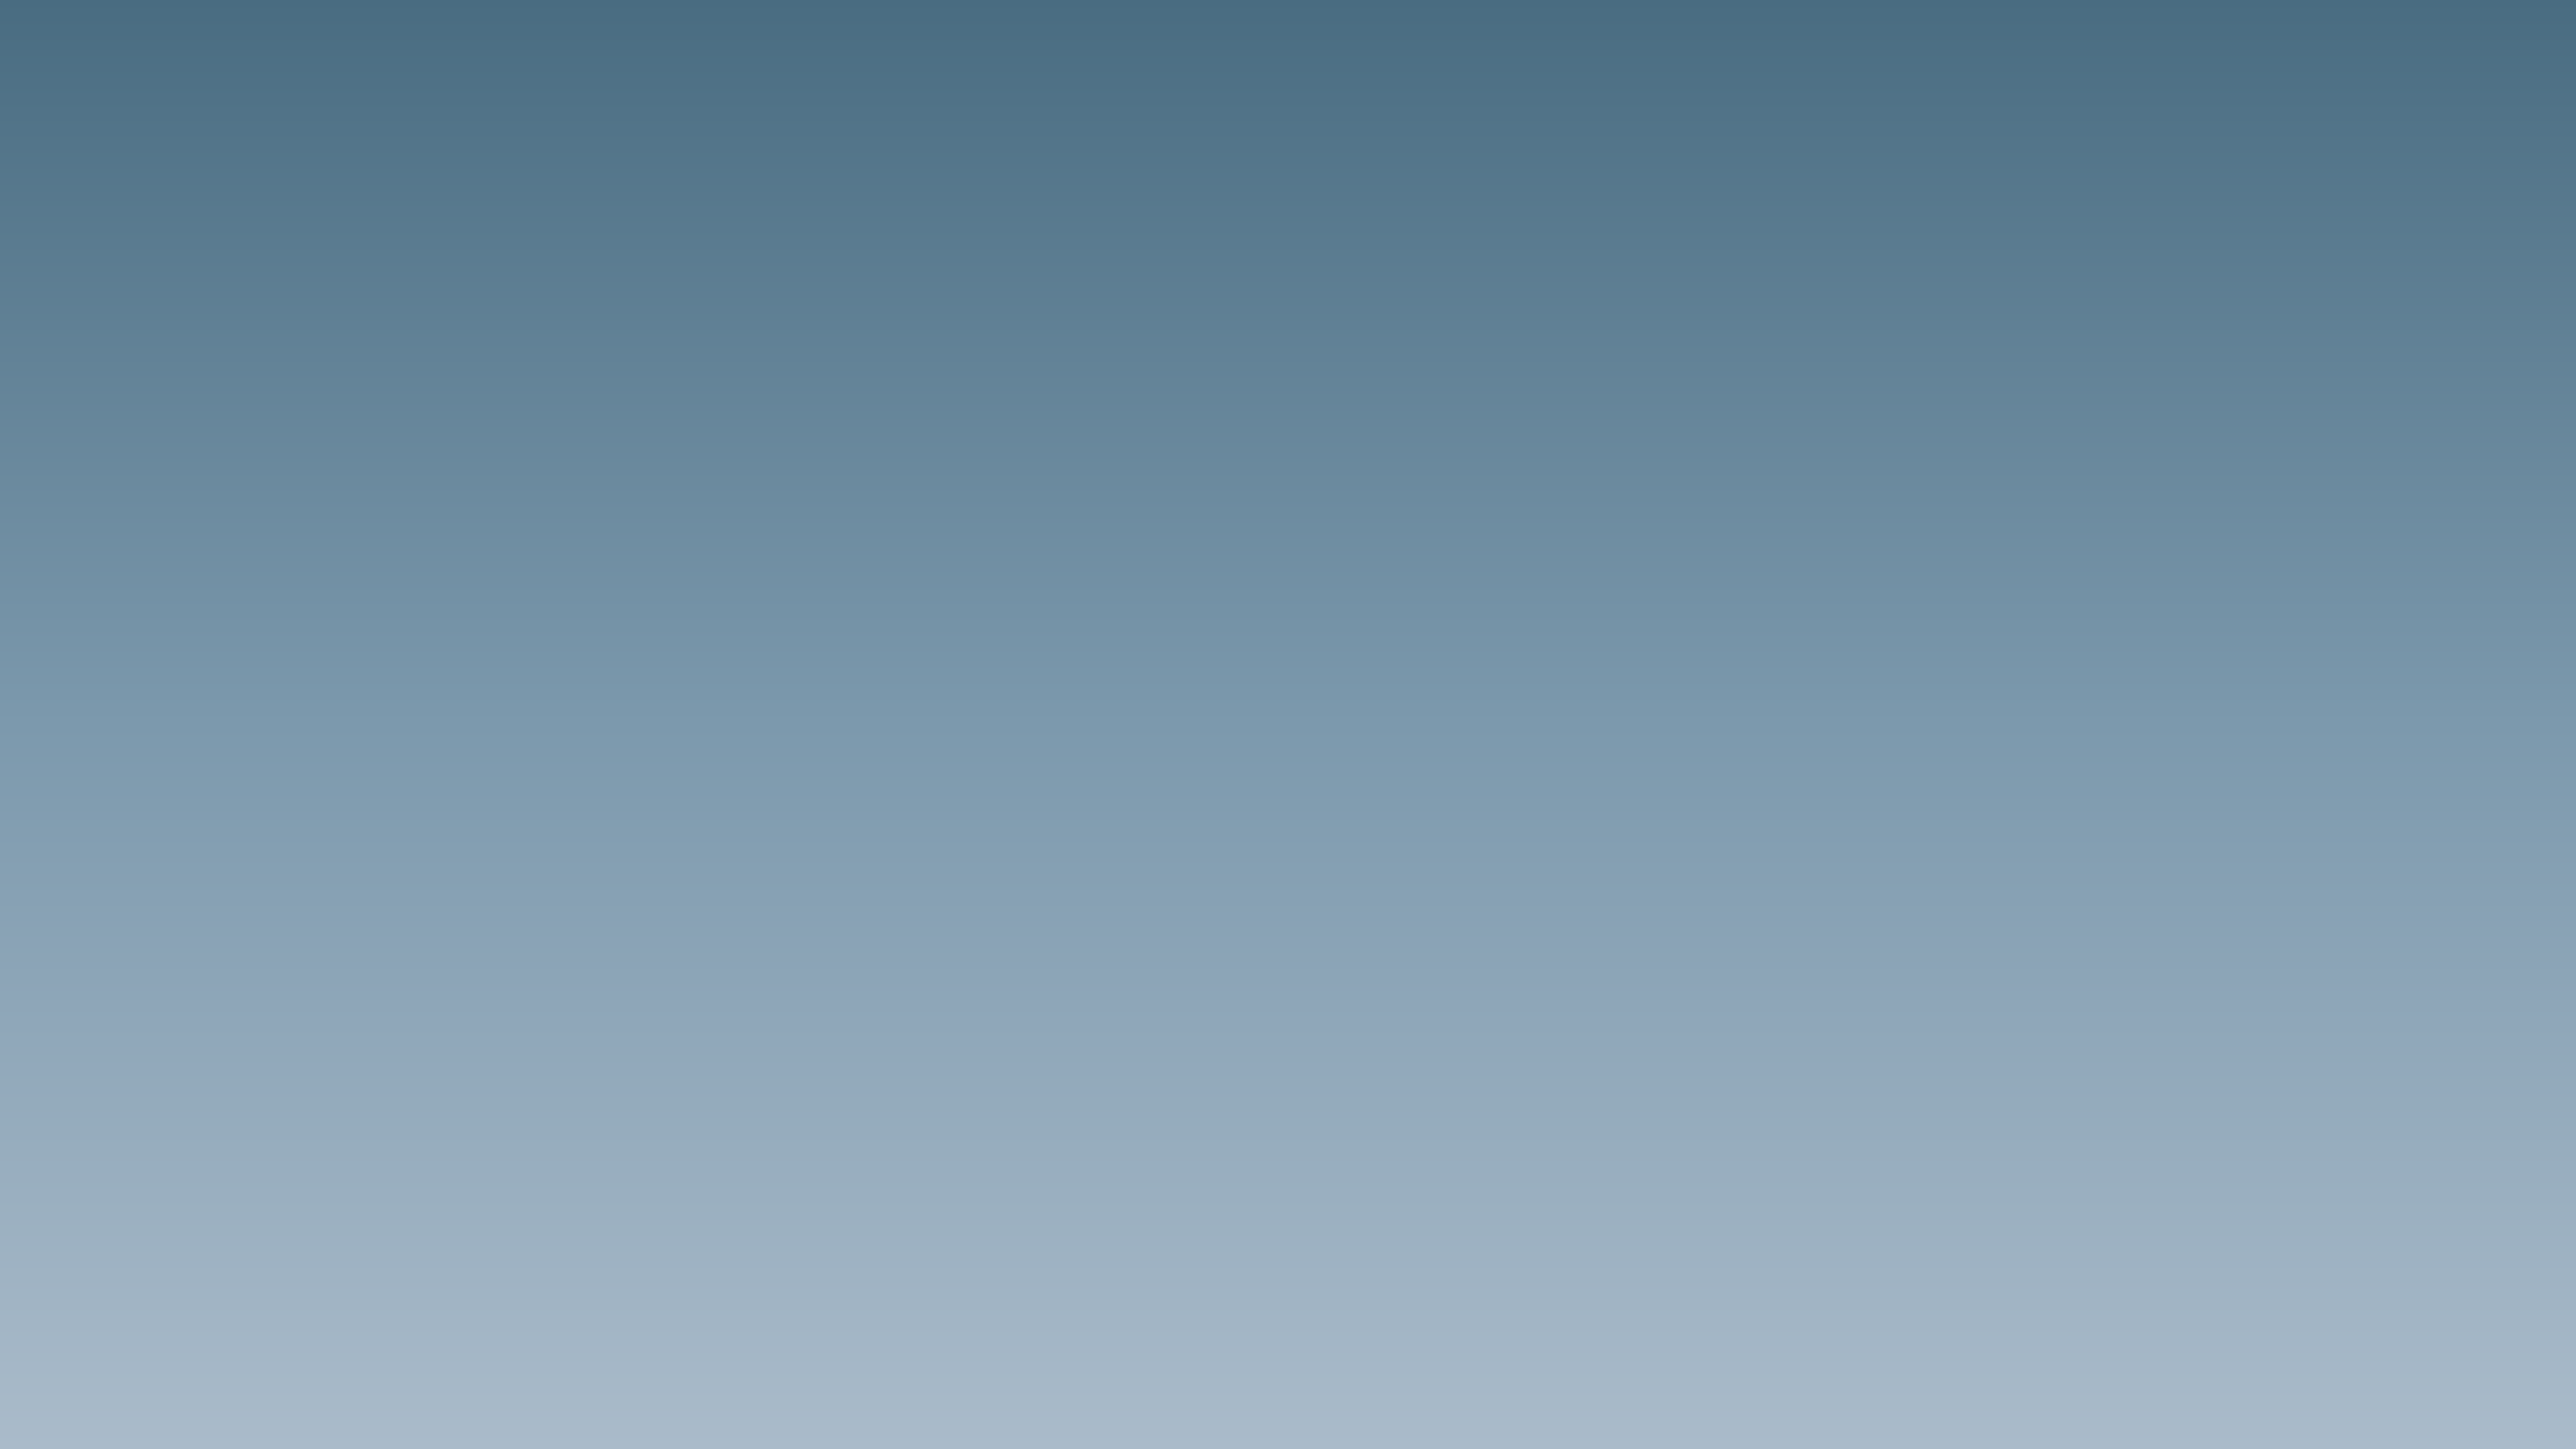
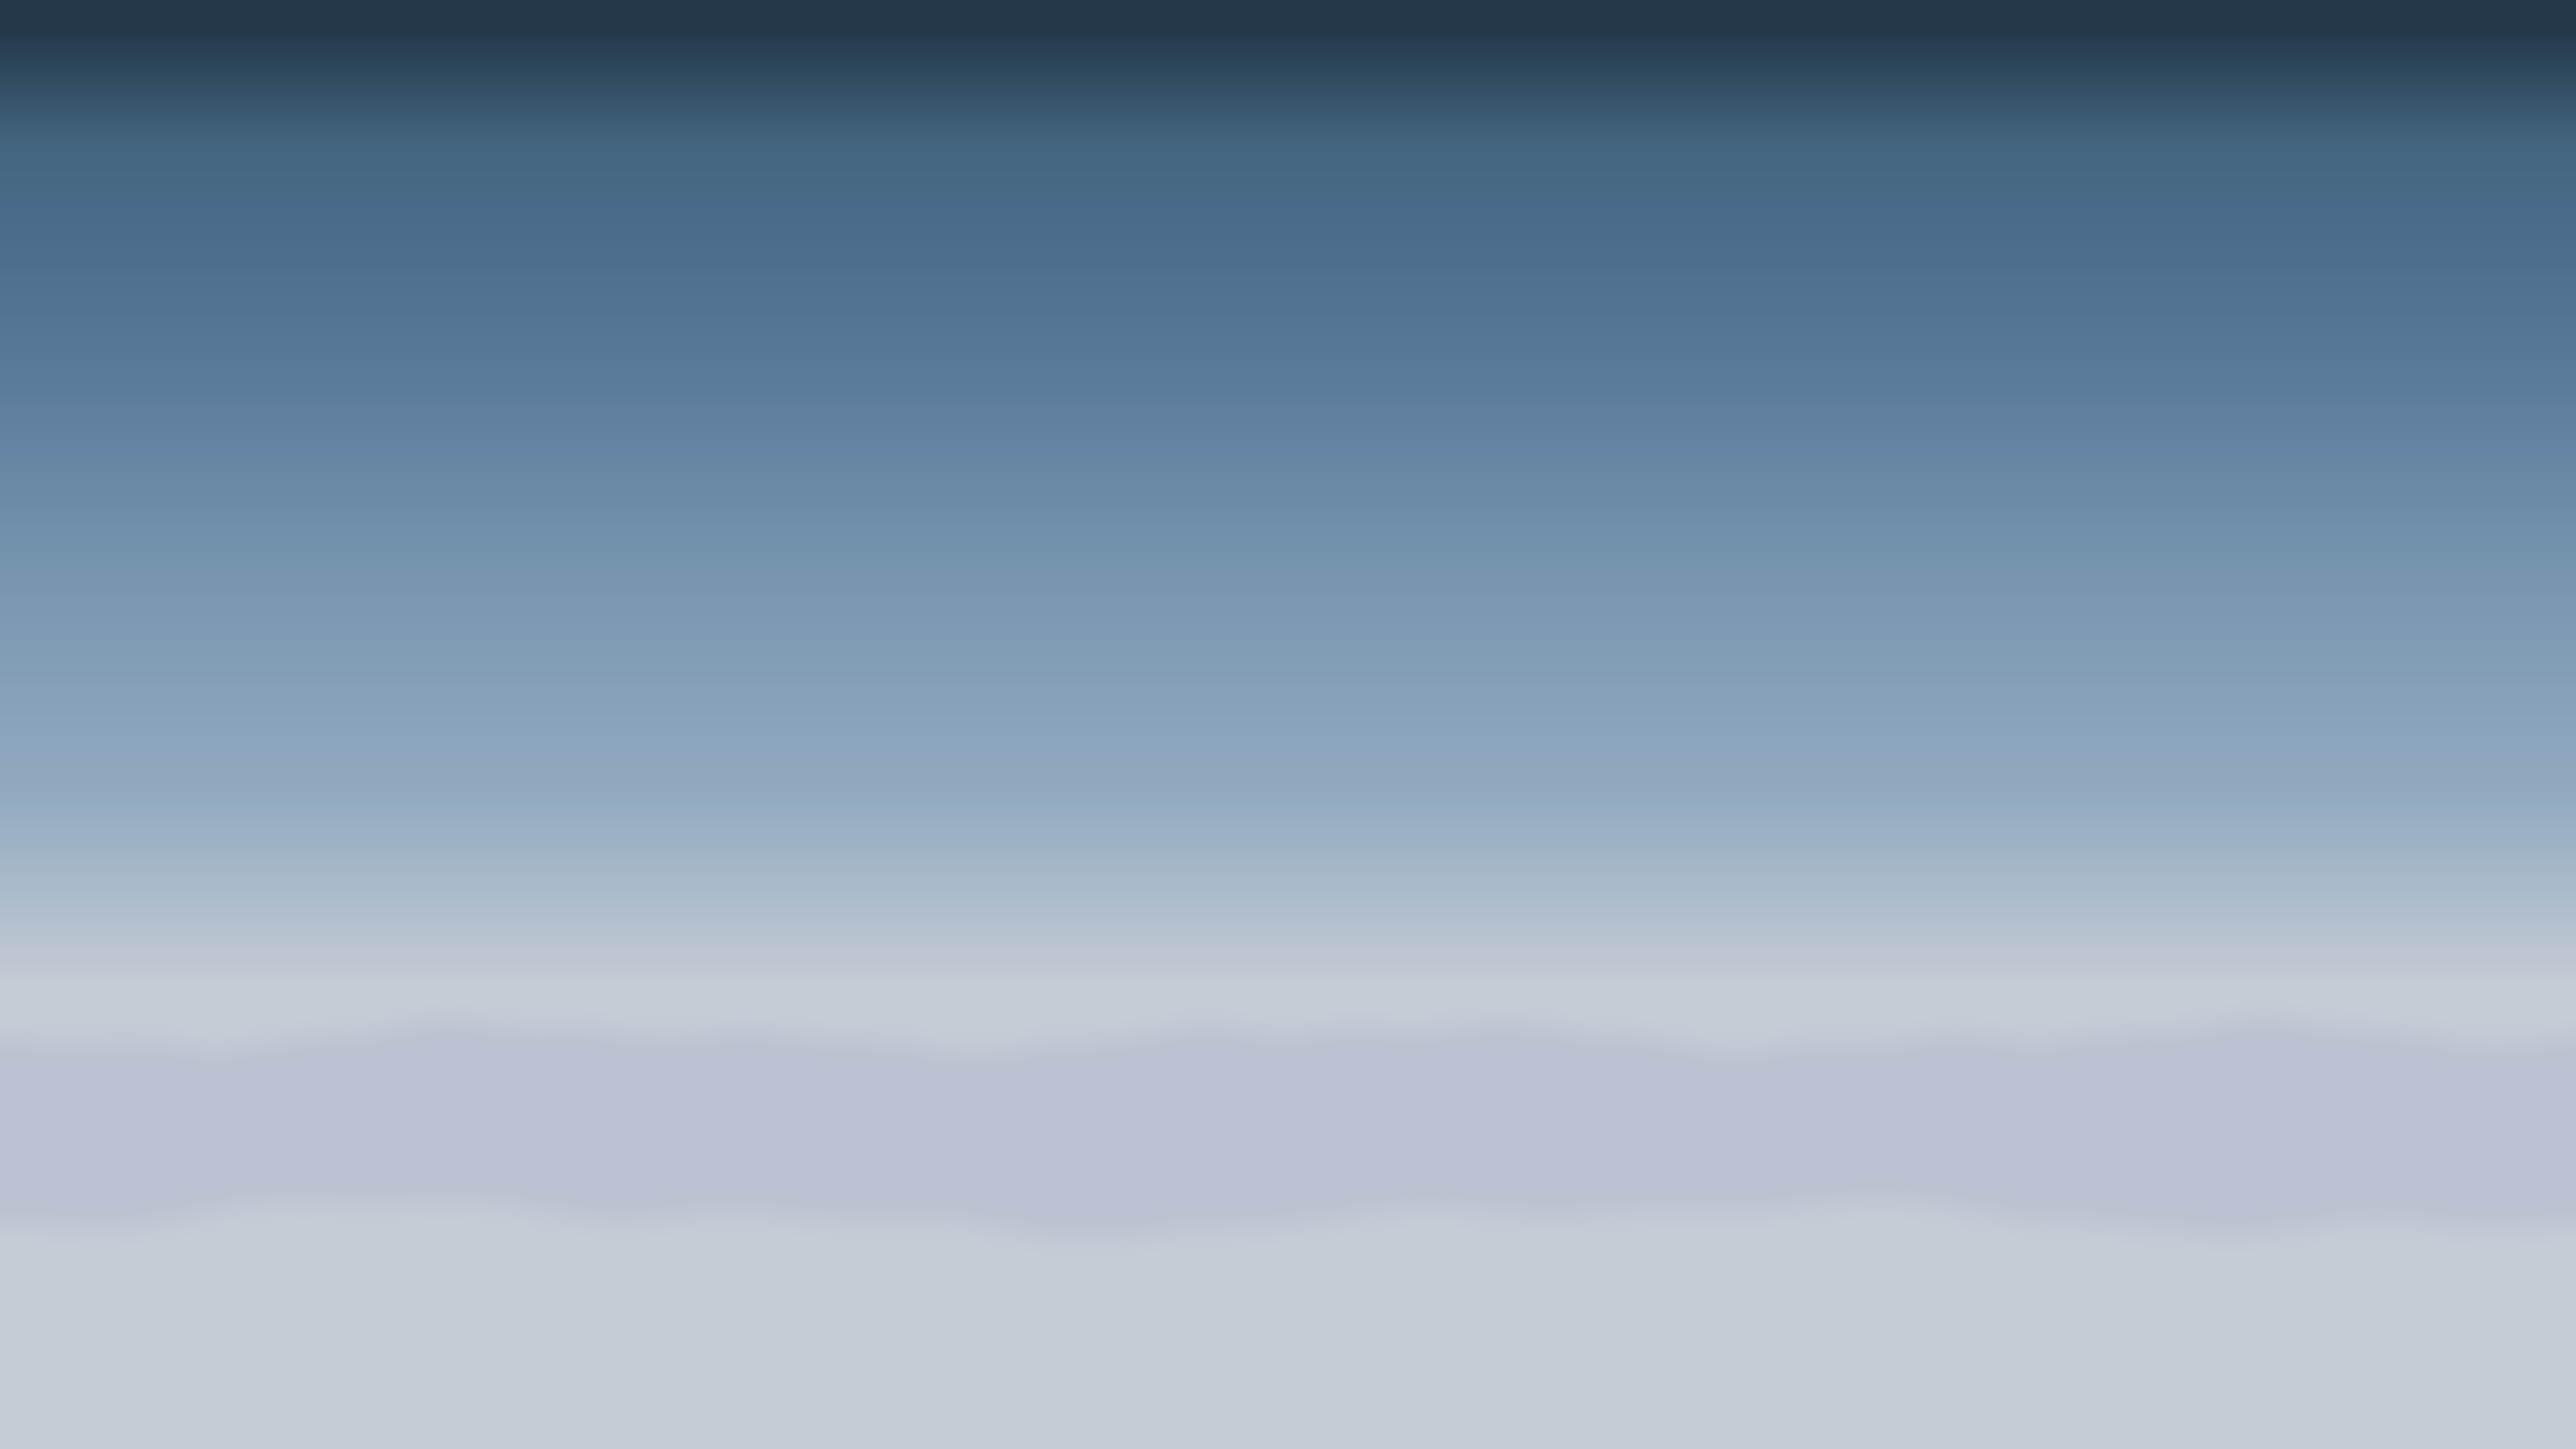
Showcase: the sky plate follows the hero's measured ramp

diff --git a/fixtures/showcase/generate_sky_plate.py b/fixtures/showcase/generate_sky_plate.py
@@ -1,0 +1,172 @@
+"""Sky plate for the Showcase (#192 M2) -- regenerated from the hero's
+measured ramp.
+
+3840x2160 opaque RGB PNG:
+- above 2 %H: clamped at `#24384A`;
+- 2 %H to the 0.68 H horizon row: piecewise-linear through the six measured
+  tall-framing anchors (`docs/research/hero-look-spec.md` section 4a, s0 row
+  means): #24384A #436580 #587998 #7896B0 #92AAC0 #C4CCD5;
+- below the horizon row: haze hold at `#C4CCD5`;
+- a soft static ridge band near the measured haze `#B9C3D1` (HorizonHaze
+  mean) below the horizon: the "distant mountains lost in haze" layer
+  (ADR-6, grilling Q8).
+
+The look-spec's fitted slopes (tall R 1.93 / G 1.62 / B 1.38 levels/%H; the
+plan and ADR-6 quote the rounded R 1.9 / G 1.6 / B 1.4) summarise the same
+measured curve; the plate is built through the anchors because a straight
+two-endpoint line loses the measured blue mid (`#6D8DA9` at 0.35 H).
+
+The cloud layer is not here: `nodes/render-background/cloud_pass.py` renders
+it and grade composites it, panned, over this plate (ADR-1, M4). Pillow +
+stdlib only; deterministic.
+
+Usage:
+  python3 fixtures/showcase/generate_sky_plate.py [--out FILE]
+  python3 fixtures/showcase/generate_sky_plate.py --check
+      # regenerate to a tempdir; compare decoded pixel bytes + dimensions
+      # (F5: Pillow is unpinned in CI, PNG bytes are not the contract) and
+      # assert the sampled ramp anchors + ridge presence.
+"""
+
+import argparse
+import math
+import os
+import tempfile
+
+from PIL import Image, ImageDraw, ImageFilter, ImageStat
+
+W, H = 3840, 2160
+ROOT = os.path.dirname(os.path.abspath(__file__))
+DEFAULT_OUT = os.path.join(ROOT, "sky-plate.png")
+
+# look-spec section 4a, tall framing, s0 (hex anchors at %H).
+ANCHORS = (
+    (0.02, (0x24, 0x38, 0x4A)),
+    (0.10, (0x43, 0x65, 0x80)),
+    (0.25, (0x58, 0x79, 0x98)),
+    (0.40, (0x78, 0x96, 0xB0)),
+    (0.55, (0x92, 0xAA, 0xC0)),
+    (0.68, (0xC4, 0xCC, 0xD5)),
+)
+ROWS = [int(round(f * H)) for f, _ in ANCHORS]   # 43 216 540 864 1188 1469
+COLS = [c for _, c in ANCHORS]
+TOP_COL, HORIZON_COL = COLS[0], COLS[-1]
+HORIZON_ROW = ROWS[-1]
+
+# Ridge band (%H below the horizon row) and its silhouette harmonics.
+RIDGE_COL = (0xB9, 0xC3, 0xD1)
+RIDGE_TOP_H, RIDGE_TOP_AMP_H = 0.035, 0.012
+RIDGE_BOT_H, RIDGE_BOT_AMP_H = 0.160, 0.015
+RIDGE_BLUR, RIDGE_STEP = 16, 8
+TOP_TERMS = ((0.55, 3.0, 0.13), (0.30, 7.0, 0.57), (0.15, 17.0, 0.83))
+BOT_TERMS = ((0.55, 2.0, 0.41), (0.30, 5.0, 0.07), (0.15, 11.0, 0.67))
+
+MID_ROW = int(round(0.35 * H))                   # 756
+MID_COL = (0x6D, 0x8C, 0xA8)                     # 2/3 between the 0.25/0.40 anchors
+RIDGE_SAMPLE = (1630, 1710)                      # fully inside the unblurred band
+
+
+def ramp_colour(y):
+    """Row colour: anchor interpolation, clamped outside 0.02..0.68 H."""
+    if y <= ROWS[0]:
+        return TOP_COL
+    if y >= ROWS[-1]:
+        return HORIZON_COL
+    i = 0
+    while ROWS[i + 1] <= y:
+        i += 1
+    t = (y - ROWS[i]) / float(ROWS[i + 1] - ROWS[i])
+    return tuple(int(round(a + t * (b - a))) for a, b in zip(COLS[i], COLS[i + 1]))
+
+
+def _wave(x, terms):
+    u = x / float(W)
+    return sum(a * math.sin(2 * math.pi * (f * u + p)) for a, f, p in terms)
+
+
+def ridge_top(x):
+    return int(round(HORIZON_ROW + H * (RIDGE_TOP_H + RIDGE_TOP_AMP_H * _wave(x, TOP_TERMS))))
+
+
+def ridge_bottom(x):
+    return int(round(HORIZON_ROW + H * (RIDGE_BOT_H + RIDGE_BOT_AMP_H * _wave(x, BOT_TERMS))))
+
+
+def build(path):
+    """Write the plate to `path` (PNG, RGB) and return it."""
+    base = Image.new("RGB", (1, H))
+    base.putdata([ramp_colour(y) for y in range(H)])
+    plate = base.resize((W, H), Image.NEAREST)
+
+    mask = Image.new("L", (W, H), 0)
+    xs = list(range(0, W, RIDGE_STEP)) + [W - 1]
+    pts = [(x, ridge_top(x)) for x in xs] + [(x, ridge_bottom(x)) for x in reversed(xs)]
+    ImageDraw.Draw(mask).polygon(pts, fill=255)
+    mask = mask.filter(ImageFilter.GaussianBlur(RIDGE_BLUR))
+
+    plate = Image.composite(Image.new("RGB", (W, H), RIDGE_COL), plate, mask)
+    plate.save(path, "PNG")
+    return plate
+
+
+def die(msg):
+    raise SystemExit("sky-plate check FAILED: %s" % msg)
+
+
+def check(out=DEFAULT_OUT):
+    if not os.path.exists(out):
+        die("plate not found: %s" % out)
+    with tempfile.TemporaryDirectory() as tmp:
+        tmp_out = os.path.join(tmp, "sky-plate.png")
+        build(tmp_out)
+        a, b = Image.open(out), Image.open(tmp_out)
+        a.load()
+        b.load()
+        for name, im in (("committed", a), ("regenerated", b)):
+            if im.size != (W, H) or im.mode != "RGB":
+                die("%s plate is %s %s, want %s RGB" % (name, im.size, im.mode, (W, H)))
+        print("dimensions: %dx%d mode %s (opaque) OK" % (a.size[0], a.size[1], a.mode))
+        if a.tobytes() != b.tobytes():
+            die("decoded pixels differ between committed plate and regeneration")
+        print("decoded pixels: identical on regeneration OK")
+        for name, y, want in (("top", int(0.01 * H), TOP_COL),
+                              ("mid", MID_ROW, MID_COL),
+                              ("horizon", HORIZON_ROW, HORIZON_COL)):
+            got = b.getpixel((W // 2, y))
+            if got != want:
+                die("ramp %s at row %d: got %s, want %s" % (name, y, got, want))
+        print("ramp samples: top %s mid %s horizon %s OK"
+              % (TOP_COL, MID_COL, HORIZON_COL))
+        if b.getpixel((W // 2, H - 1)) != HORIZON_COL:
+            die("haze hold below the horizon changed at row %d" % (H - 1))
+        m = ImageStat.Stat(b.crop((0, RIDGE_SAMPLE[0], W, RIDGE_SAMPLE[1]))).mean
+        if max(abs(m[i] - RIDGE_COL[i]) for i in range(3)) > 1.0:
+            die("ridge rows %d-%d mean (%d, %d, %d), want ~%s"
+                % (RIDGE_SAMPLE + tuple(round(v) for v in m) + (RIDGE_COL,)))
+        if m[0] > HORIZON_COL[0] - 8:
+            die("ridge band not distinct from the haze hold")
+        print("ridge rows %d-%d: mean (%d, %d, %d) vs #B9C3D1, hold %s OK"
+              % (RIDGE_SAMPLE + tuple(round(v) for v in m) + (HORIZON_COL,)))
+        same = open(out, "rb").read() == open(tmp_out, "rb").read()
+        print("png bytes: %s (informational; decoded pixels are the contract, F5)"
+              % ("identical" if same else "differ"))
+    print("M2 sky-plate check PASS")
+
+
+def main(argv=None):
+    p = argparse.ArgumentParser(description="sky plate for the Showcase (#192 M2)")
+    p.add_argument("--out", default=DEFAULT_OUT, help="output PNG (default: %(default)s)")
+    p.add_argument("--check", action="store_true",
+                   help="regenerate to a tempdir, compare against --out, sample ramp/ridge")
+    args = p.parse_args(argv)
+    out = os.path.abspath(args.out)
+    if args.check:
+        check(out)
+        return
+    os.makedirs(os.path.dirname(out), exist_ok=True)
+    im = build(out)
+    print("wrote %s (%dx%d %s)" % (out, im.size[0], im.size[1], im.mode))
+
+
+if __name__ == "__main__":
+    main()

diff --git a/fixtures/showcase/PROVENANCE.md b/fixtures/showcase/PROVENANCE.md
@@ -2,7 +2,7 @@
 
 Three fixtures for the Showcase tracer (plan module M0). Status: placeholder
 fixtures for development; the boundary is **calibration debt**, the sky plate is
-a sampled stand-in.
+now generated from the hero's measured ramp (see below).
 
 ## `boundary-bellus.json`
 
@@ -62,40 +62,46 @@ The mesh the boundary indexes is the golden Capture's Reconstruction:
 
 ## `sky-plate.png`
 
-**What it is.** The hero's sky, as a stand-in plate: opaque RGB PNG
-(3840 × 2160, no alpha). `scripts/hero/grade.py:8` resizes it to the render's
-size and grades over it; the render is film-transparent
-(`film_transparent = True`), so this plate **is** the visible sky.
+**What it is.** The hero's sky, regenerated from the hero's own measured
+ramp: opaque RGB PNG (3840 × 2160, no alpha). `nodes/grade/grade.py:25`
+resizes it to the render's size and grades over it; the render is
+film-transparent (`film_transparent = True`), so this plate **is** the visible
+sky. The cloud sea is not in the plate:
+`nodes/render-background/cloud_pass.py` renders it and grade composites it,
+panned, over the plate (ADR-1, M4).
 
-**Where the colour comes from.** The hero sky is the HDRI
-`kloofendal_overcast_puresky_4k.hdr` (Poly Haven, CC0) at
-`akamel-linux:~/hero3d/assets/kloofendal_overcast_puresky/`, used as the world
-environment by `scripts/hero/hero.py:506-527` (strength 1.45, below-horizon
-ground ramped to near-black) and rendered with AgX / AgX - Medium High
-Contrast (`hero.py:553-554`). The HDRI's above-horizon row means are bright and
-blue-weighted (zenith-band sRGB ≈ #DCEFFF..#F3FFFF untonemapped, row-mean
-linear B > G > R); raw linear values are not display-referred, so the plate
-uses the hero sky's own sampled display values instead —
-`docs/ui-theme/spec.md` §3.1, "sampled from frames":
+**Where the colour comes from.** `docs/research/hero-look-spec.md` §4a — the
+approved hero's own sampled row means (tall framing, s0), as a vertical ramp
+through the six measured anchors, 8-bit per channel:
 
-| Gradient stop | Colour |
-|---|---|
-| Top | `#496C81` muted steel blue |
-| Middle | `#7C99AD` |
-| Bottom (horizon haze) | `#AABBCA` |
+| %H | 0.02 | 0.10 | 0.25 | 0.40 | 0.55 | 0.68 (horizon) |
+|---|---|---|---|---|---|---|
+| hex | `#24384A` | `#436580` | `#587998` | `#7896B0` | `#92AAC0` | `#C4CCD5` |
 
-`grade.py` adds its own haze, glow and lifted shadows on top
-(`HAZE, GLOW, LIFT = 0.09, 0.2, 0.04`), so the plate stays flat and ungraded.
-Rebuild: linear interpolation between the three stops, 2160 rows, one row
-resized to 3840 wide with Pillow.
+clamped above 0.02 H, held at `#C4CCD5` below the horizon row. Below the
+horizon sits a soft static ridge band near the measured haze `#B9C3D1`
+(`HorizonHaze` mean; ΔE ≈ 22 vs the `--haze` token, an open shared-token
+sign-off, D-2): the "distant mountains lost in haze" layer, no geometry
+(ADR-6, grilling Q8).
 
-**Debt and upgrade path.** The plate is a flat gradient, not a rendered frame
-of the HDRI: it does not carry the HDRI's cloud structure or sun glow, and its
-brightness is matched to the hero still's sampled values rather than to a
-colour-managed render of the world. For a production Showcase the plate should
-be replaced by a sky rendered (or tone-mapped) from the same HDRI the
-Reconstruction's lighting uses, through the same view transform; the path
-exists in `scripts/hero/hero.py`'s world setup and only needs a render step.
+The look-spec's fitted slopes (tall R 1.93 / G 1.62 / B 1.38 levels/%H; the
+plan and ADR-6 quote the rounded R 1.9 / G 1.6 / B 1.4) summarise that same
+measured curve; the plate is built through the anchors because a straight
+two-endpoint line loses the measured blue mid (`#6D8DA9` at 0.35 H).
+
+**Rebuild.** `python3 fixtures/showcase/generate_sky_plate.py [--out FILE]`
+(Pillow + stdlib only, deterministic); `--check` regenerates to a tempdir and
+compares decoded pixel bytes + dimensions, then samples the ramp anchors and
+the ridge band. F5: Pillow is unpinned in CI, so PNG bytes are not the
+contract — the decoded pixels are.
+
+**History.** Supersedes the M0 flat 3-stop plate (`#496C81` / `#7C99AD` /
+`#AABBCA`, linear interpolation, drawn 2026-09-25 by opencode run `190`); its
+debt note asked for a sky rendered (or tone-mapped) from the same HDRI through
+the same view transform — discharged by the measured ramp plus the separate
+HDRI-lit cloud pass, which carries the cloud structure the flat gradient
+lacked. Regenerated 2026-09-27 by the AutoForge M2 worker (opencode run `192`,
+`deepseek-v4.1-flash`).
 
 ## Synthetic golden fixtures (`turn-3f/`, `dir-a/`, `dir-b/`)
 
